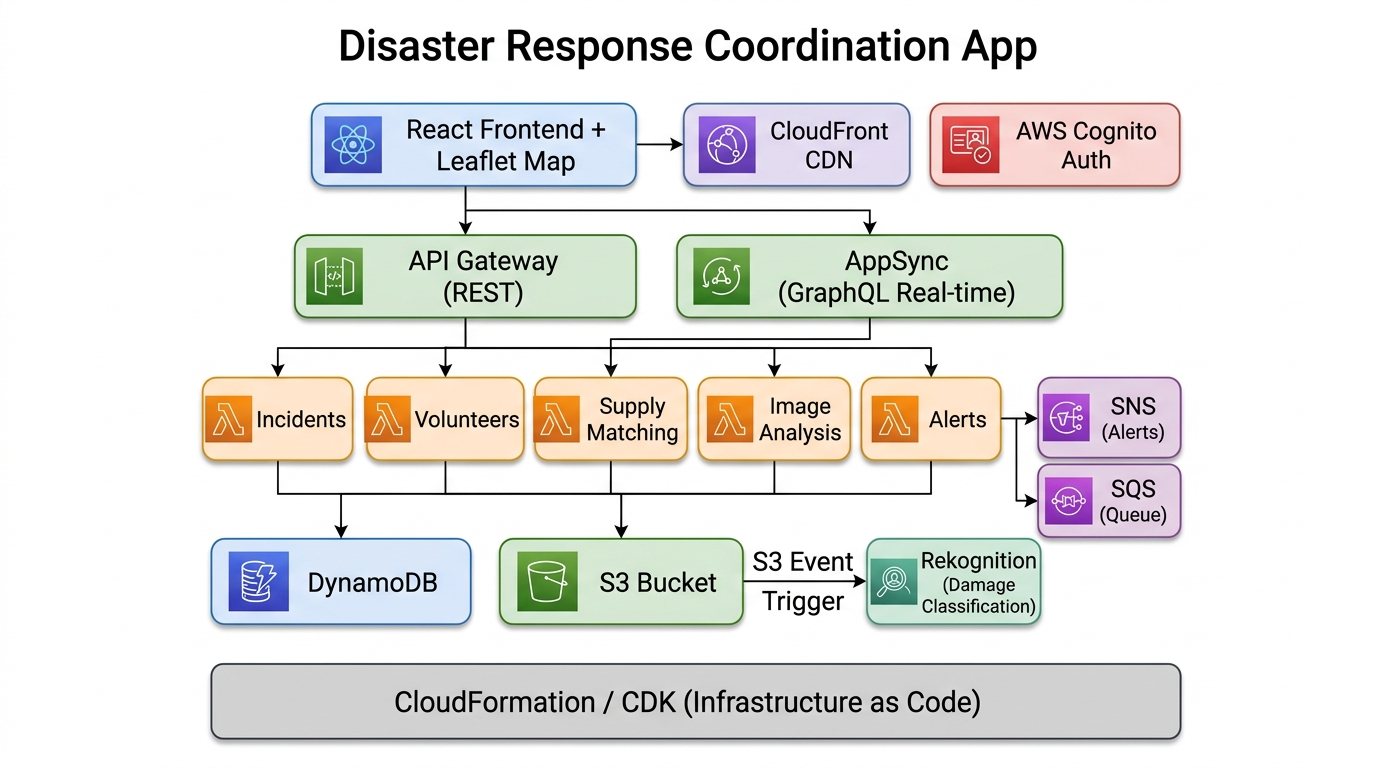
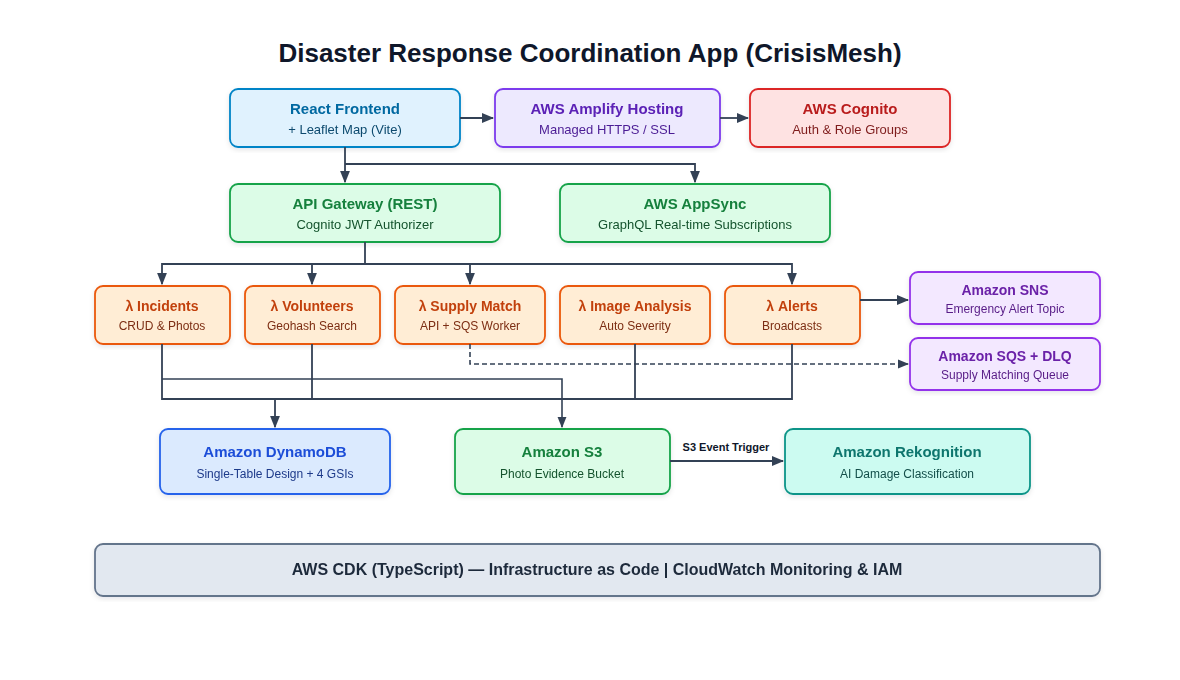
fix: align architecture diagram, docs, GSI names, env vars, and API routes

diff --git a/infra/lib/stack.ts b/infra/lib/stack.ts
@@ -122,18 +122,22 @@ export class DisasterResponseStack extends cdk.Stack {
       });
 
     // ── Lambda Functions ──
-    const incidentsFn = makeFn('IncidentsFn', 'incidents', { TABLE_NAME: table.tableName });
+    const incidentsFn = makeFn('IncidentsFn', 'incidents', {
+      TABLE_NAME: table.tableName,
+      PHOTOS_BUCKET: photoBucket.bucketName,
+    });
     const volunteersFn = makeFn('VolunteersFn', 'volunteers', { TABLE_NAME: table.tableName });
     const supplyMatchingFn = makeFn('SupplyMatchingFn', 'supplyMatching', {
       TABLE_NAME: table.tableName,
-      SNS_TOPIC_ARN: alertTopic.topicArn,
+      MATCH_TOPIC_ARN: alertTopic.topicArn,
+      MATCH_QUEUE_URL: supplyQueue.queueUrl,
     });
     const imageAnalysisFn = makeFn('ImageAnalysisFn', 'imageAnalysis', {
       TABLE_NAME: table.tableName,
     });
     const alertsFn = makeFn('AlertsFn', 'alerts', {
       TABLE_NAME: table.tableName,
-      SNS_TOPIC_ARN: alertTopic.topicArn,
+      ALERTS_TOPIC_ARN: alertTopic.topicArn,
     });
     const authFn = makeFn('AuthFn', 'auth', {});
 
@@ -144,7 +148,9 @@ export class DisasterResponseStack extends cdk.Stack {
     table.grantReadWriteData(imageAnalysisFn);
     table.grantReadWriteData(alertsFn);
 
+    photoBucket.grantPut(incidentsFn);
     photoBucket.grantRead(imageAnalysisFn);
+    supplyQueue.grantSendMessages(supplyMatchingFn);
     alertTopic.grantPublish(supplyMatchingFn);
     alertTopic.grantPublish(alertsFn);
 

diff --git a/frontend/src/components/IncidentForm.tsx b/frontend/src/components/IncidentForm.tsx
@@ -27,10 +27,10 @@ export default function IncidentForm({ lat, lng, onClose, onCreated }: Props) {
       const incident = await createIncident({ type, severity, description, lat, lng })
       if (photos.length > 0) {
         try {
-          const { uploadUrls } = await getPhotoUploadUrl(incident.id)
-          await Promise.all(photos.slice(0, 3).map((file, i) =>
-            fetch(uploadUrls[i], { method: 'PUT', body: file, headers: { 'Content-Type': file.type } })
-          ))
+          await Promise.all(photos.slice(0, 3).map(async (file) => {
+            const { uploadUrl } = await getPhotoUploadUrl(incident.id)
+            await fetch(uploadUrl, { method: 'PUT', body: file, headers: { 'Content-Type': 'image/jpeg' } })
+          }))
         } catch { /* photo upload is best-effort */ }
       }
       onCreated()

diff --git a/frontend/src/api.ts b/frontend/src/api.ts
@@ -26,10 +26,10 @@ export const createIncident = (data: Record<string, unknown>) =>
   api('/incidents', { method: 'POST', body: JSON.stringify(data) })
 
 export const getPhotoUploadUrl = (incidentId: string) =>
-  api(`/incidents/${incidentId}/upload-url`)
+  api(`/incidents/${incidentId}/photos`, { method: 'POST' })
 
 export const updateIncidentStatus = (id: string, status: string) =>
-  api(`/incidents/${id}/status`, { method: 'PATCH', body: JSON.stringify({ status }) })
+  api(`/incidents/${id}`, { method: 'PATCH', body: JSON.stringify({ status }) })
 
 export const getVolunteers = (near?: { lat: number; lng: number }) => {
   const qs = near ? `?lat=${near.lat}&lng=${near.lng}` : ''

diff --git a/backend/handlers/volunteers.ts b/backend/handlers/volunteers.ts
@@ -41,7 +41,7 @@ export const handler = async (event: APIGatewayProxyEvent): Promise<APIGatewayPr
         const { geohashPrefix } = event.queryStringParameters || {};
         if (geohashPrefix) {
           const result = await docClient.send(new QueryCommand({
-            TableName: TABLE_NAME, IndexName: 'GSI3',
+            TableName: TABLE_NAME, IndexName: 'gsi3',
             KeyConditionExpression: 'begins_with(gsi3pk, :g)',
             FilterExpression: 'isAvailable = :a',
             ExpressionAttributeValues: { ':g': geohashPrefix, ':a': true },

diff --git a/docs/presentation.html b/docs/presentation.html
@@ -156,7 +156,7 @@ body { background: var(--bg); }
       <h3>🤖 AI & Hosting & IaC</h3>
       <ul>
         <li><span class="accent">Amazon Rekognition</span> — Damage classification</li>
-        <li><span class="accent">Amazon CloudFront</span> — Global CDN</li>
+        <li><span class="accent">AWS Amplify Hosting</span> — Managed HTTPS</li>
         <li><span class="accent">AWS IAM</span> — Fine-grained permissions</li>
         <li><span class="accent">AWS CDK</span> — Infrastructure as Code</li>
       </ul>

diff --git a/backend/handlers/incidents.ts b/backend/handlers/incidents.ts
@@ -35,7 +35,7 @@ export const handler = async (event: APIGatewayProxyEvent): Promise<APIGatewayPr
         const { status, type } = event.queryStringParameters || {};
         if (status) {
           const result = await docClient.send(new QueryCommand({
-            TableName: TABLE_NAME, IndexName: 'GSI2',
+            TableName: TABLE_NAME, IndexName: 'gsi2',
             KeyConditionExpression: 'gsi2pk = :s', ExpressionAttributeValues: { ':s': status },
             ScanIndexForward: false,
           }));

diff --git a/backend/handlers/supplyMatching.ts b/backend/handlers/supplyMatching.ts
@@ -47,7 +47,7 @@ async function handleApi(event: APIGatewayProxyEvent): Promise<APIGatewayProxyRe
 
     case 'GET /supplies/requests': {
       const result = await docClient.send(new QueryCommand({
-        TableName: TABLE_NAME, IndexName: 'GSI4',
+        TableName: TABLE_NAME, IndexName: 'gsi4',
         KeyConditionExpression: 'gsi4pk = :item AND gsi4sk = :s',
         ExpressionAttributeValues: {
           ':item': event.queryStringParameters?.item || 'water',

diff --git a/README.md b/README.md
@@ -181,7 +181,7 @@ aws s3 sync dist/ s3://<frontend-bucket-name> --delete
 
 ### 7. Open the app
 
-Navigate to the **Amplify Hosting URL** or **CloudFront distribution URL** printed in the CDK outputs.
+Navigate to your **AWS Amplify Hosting URL** (`https://...amplifyapp.com`) or the **S3 Static Website URL** (`FrontendUrl`) printed in the CDK outputs.
 
 ---
 
